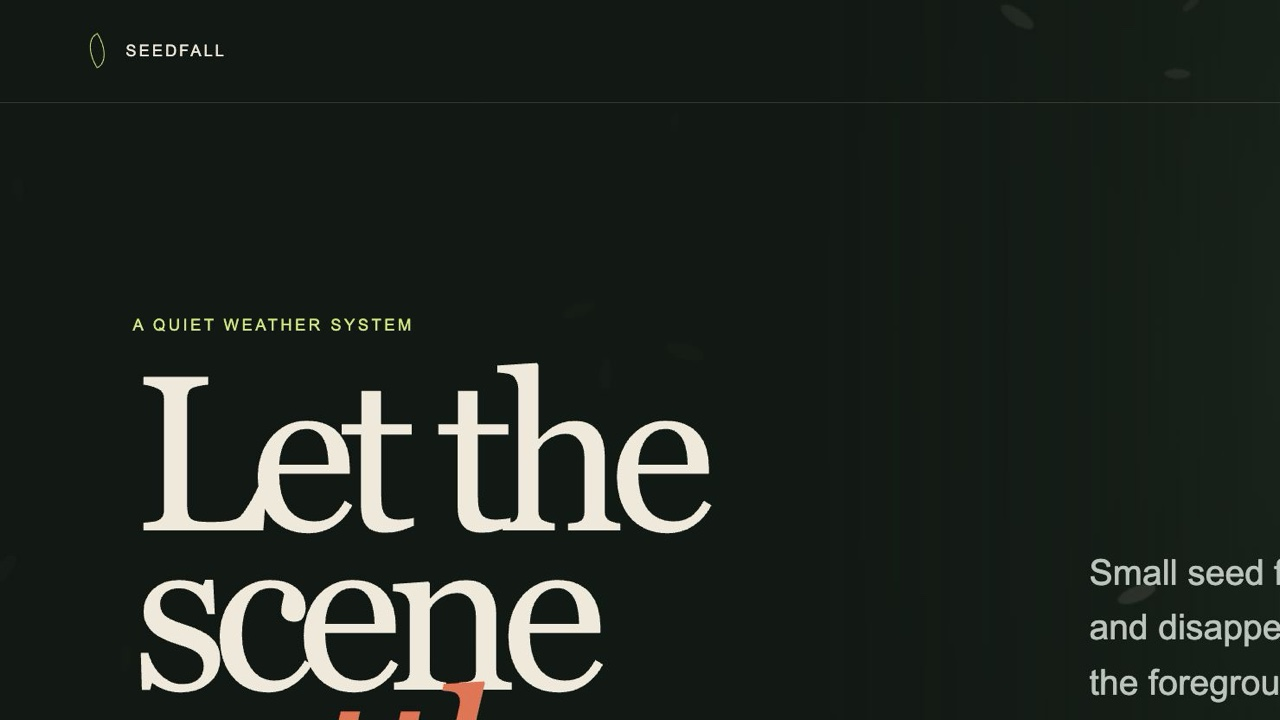
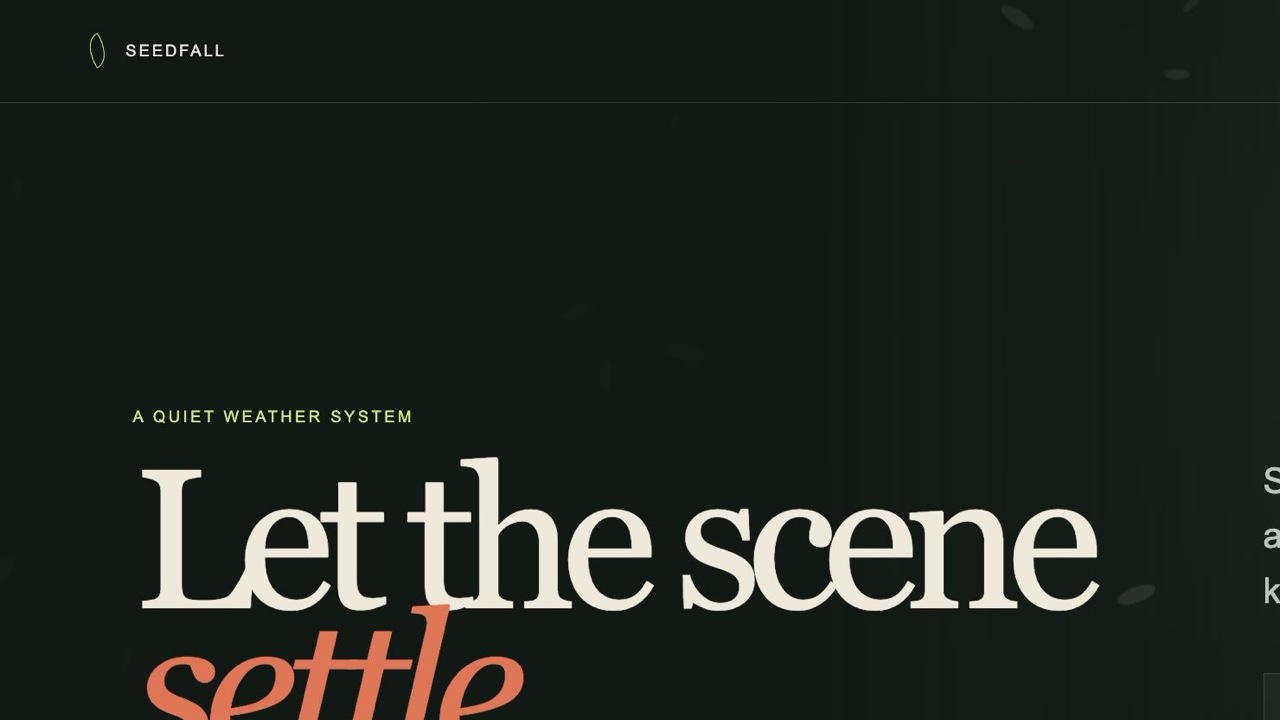
Polish scroll animation demos

diff --git a/agent-skills/web-design/ambient-section-particles/demo/index.html b/agent-skills/web-design/ambient-section-particles/demo/index.html
@@ -15,11 +15,11 @@
     .topbar { min-height: 64px; display: flex; justify-content: space-between; align-items: center; padding: 0 clamp(20px,4vw,60px); border-bottom: 1px solid var(--line); text-transform: uppercase; letter-spacing: .15em; font-size: 10px; }
     .brand { display: flex; align-items: center; gap: 12px; }
     .brand::before { content: ""; width: 10px; height: 18px; border: 1px solid var(--lime); border-radius: 90% 0 90% 0; transform: rotate(-30deg); }
-    .hero { width: min(1500px, 100%); margin: auto; padding: clamp(56px,8vw,116px) clamp(20px,6vw,88px); display: grid; grid-template-columns: minmax(0,.88fr) minmax(300px,1.12fr); align-items: end; gap: clamp(34px,8vw,132px); }
+    .hero { width: min(1500px, 100%); margin: auto; padding: clamp(56px,8vw,116px) clamp(20px,6vw,88px); display: grid; grid-template-columns: minmax(0,1fr) minmax(300px,.82fr); align-items: end; gap: clamp(34px,6vw,96px); }
     .kicker { display: block; margin-bottom: 24px; color: var(--lime); font-size: 10px; letter-spacing: .18em; text-transform: uppercase; }
-    h1 { max-width: 800px; margin: 0; font: 400 clamp(76px,10vw,162px)/.72 Georgia, "Times New Roman", serif; letter-spacing: -.075em; }
+    h1 { max-width: 760px; margin: 0; font: 400 clamp(72px,9vw,142px)/.74 Georgia, "Times New Roman", serif; letter-spacing: -.075em; }
     h1 em { display: block; color: var(--coral); font-weight: 400; }
-    .copy { max-width: 530px; padding-bottom: 8px; }
+    .copy { width: 100%; max-width: 530px; min-width: 0; padding-bottom: 8px; }
     .copy p { margin: 0 0 34px; color: #bac5bc; font-size: clamp(17px,1.7vw,22px); line-height: 1.55; }
     .actions { display: flex; flex-wrap: wrap; gap: 12px; }
     button, .link { min-height: 46px; padding: 0 18px; border: 1px solid var(--line); color: var(--paper); background: rgba(241,234,219,.04); display: inline-flex; align-items: center; gap: 12px; text-decoration: none; text-transform: uppercase; letter-spacing: .12em; font-size: 10px; cursor: pointer; }

diff --git a/agent-skills/web-design/scroll-scrubbed-word-reveal/demo/index.html b/agent-skills/web-design/scroll-scrubbed-word-reveal/demo/index.html
@@ -13,12 +13,12 @@
     .masthead b { display: inline-flex; align-items: center; gap: 10px; font-weight: 600; }
     .masthead b::before { content: ""; width: 8px; height: 8px; border-radius: 50%; background: var(--red); }
     .story { height: 310vh; position: relative; }
-    .reader { position: sticky; top: 0; min-height: 100vh; padding: 104px clamp(22px,6vw,86px) 36px; display: grid; grid-template-columns: 150px minmax(0,1fr) 180px; gap: clamp(24px,5vw,80px); align-items: center; }
+    .reader { position: sticky; top: 0; min-height: 100vh; padding: 104px clamp(22px,4vw,60px) 36px; display: grid; grid-template-columns: 120px minmax(0,1fr) 150px; gap: clamp(20px,3vw,50px); align-items: center; }
     .side { align-self: stretch; display: flex; flex-direction: column; justify-content: space-between; padding: 24px 0; color: #6a6b62; font-size: 10px; line-height: 1.6; letter-spacing: .12em; text-transform: uppercase; }
     .side strong { color: var(--ink); font-size: 11px; font-weight: 600; }
     .rail { position: relative; width: 1px; height: min(320px, 42vh); margin-top: auto; background: var(--line); }
     .rail i { display: block; width: 3px; height: 100%; margin-left: -1px; background: var(--red); transform: scaleY(var(--progress)); transform-origin: top; }
-    .passage { margin: 0; max-width: 1120px; font: 400 clamp(54px, 6.6vw, 112px)/.92 Georgia, "Times New Roman", serif; letter-spacing: -.058em; }
+    .passage { min-width: 0; margin: 0; max-width: 1040px; font: 400 clamp(50px, 5.7vw, 94px)/.92 Georgia, "Times New Roman", serif; letter-spacing: -.058em; }
     .passage em { color: var(--moss); font-style: italic; }
     .passage strong { color: var(--red); font-weight: 400; }
     [data-word] { display: inline; opacity: calc(.22 + var(--word-progress) * .78); filter: blur(calc((1 - var(--word-progress)) * 4px)); transform: translateY(calc((1 - var(--word-progress)) * .16em)); transition: color .15s linear; }